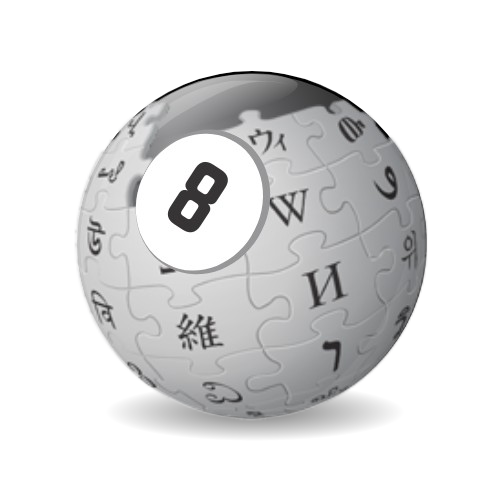
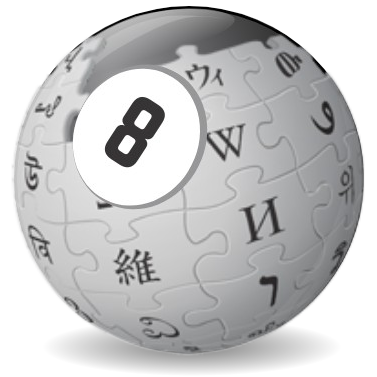
search pic looked so sad and squished :(( also cropped it

diff --git a/index.html b/index.html
@@ -62,7 +62,7 @@
   </head>
   <body>
       <div class="mw-header">
-        <img src="/public/wiki-8ball.png" width="100" height="100">
+        <img src="/public/wiki-8ball.png" width="60" height="60">
         <h1>Pikiwedia: the Lee Enfrycopedia</h1>
       </div>
 
